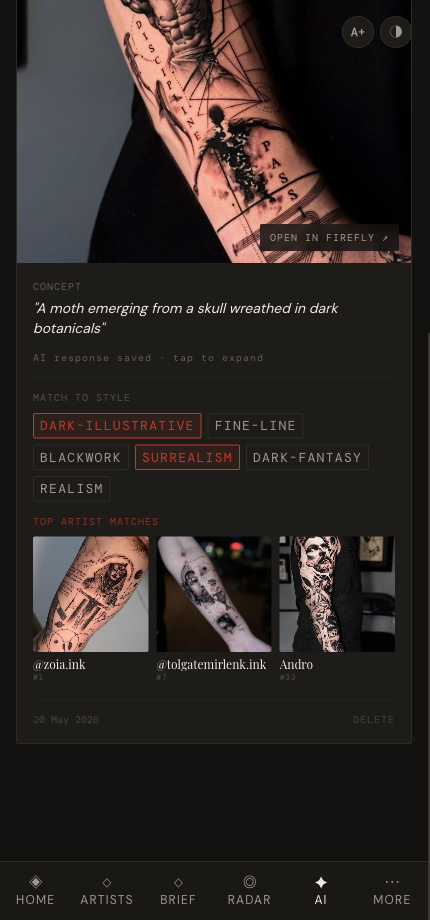
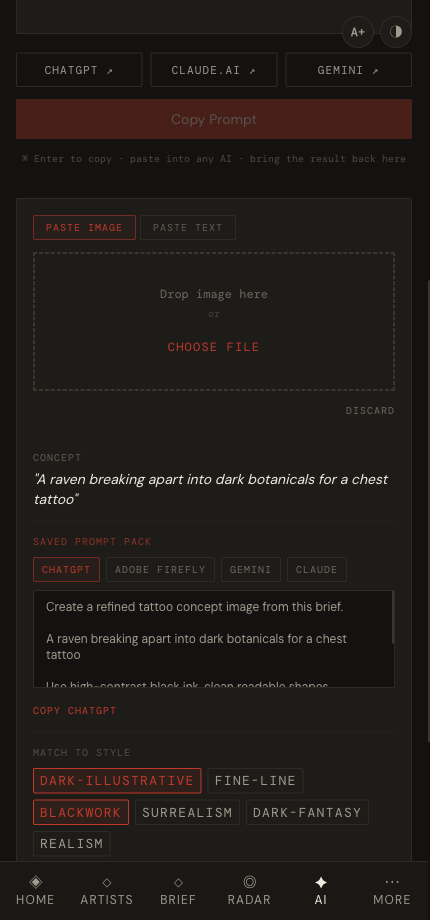
docs(ai): sync prompt pack guide

diff --git a/src/pages/Help.jsx b/src/pages/Help.jsx
@@ -68,12 +68,13 @@ const SECTIONS = [
   {
     id: 'concepts',
     label: 'AI concepts',
-    blurb: 'Turn a description into a concept, then match it to artists by style.',
+    blurb: 'Create prompt packs, save AI results, and match concepts to artists by style.',
     image: 'concepts.png',
     steps: [
-      'Open AI and describe a tattoo concept in the prompt box.',
-      'Without an API key: tap Copy Prompt, paste it into ChatGPT, Claude or Gemini, then bring the result back via Paste image / Paste text.',
-      'With an OpenAI key configured (⚙ Configure AI): press ⌘+Enter to generate a DALL·E image directly.',
+      'Open AI. In Prompt Pack, start from free text or select a Brief idea to pull in placement, tags, linked artists and reference notes.',
+      'Tap Generate Prompt Pack, switch between ChatGPT, Adobe Firefly, Gemini and Claude prompts, then Save Pack before leaving Tattoo.',
+      'Copy the provider prompt you want to use. Bring results back to the saved card with Paste image or Paste text.',
+      'The older quick prompt box still works: Copy Prompt opens the manual paste flow, or configure an OpenAI key (⚙ Configure AI) to generate an image directly.',
       'Tag each concept with styles to reveal its top artist matches; tap a match to open their Instagram.',
     ],
   },

diff --git a/docs/06-concepts.md b/docs/06-concepts.md
@@ -1,20 +1,42 @@
 # AI concepts
 
-*Turn a written description into a tattoo concept, then see which of your artists suit it.*
+*Turn rough tattoo ideas into prompt packs, saved AI results, and artist matches.*
 
 ← [Back to contents](README.md)
 
 ---
 
-**AI** is a sketchpad for concepts. You describe an idea, generate or paste in a visual,
-and the app matches it to artists by style.
+**AI** is a sketchpad and prompt workbench for concepts. You can turn a short idea
+or an existing Brief idea into provider-specific prompts for ChatGPT, Adobe Firefly,
+Gemini and Claude, then bring the generated results back into Tattoo.
 
 ![The AI Concepts page](../public/guide/concepts.png)
 
-## Describe a concept
+## Build a prompt pack
+
+The **Prompt Pack** workbench is the recommended starting point. Choose a source:
+
+- **Free text** — type a loose concept, such as *"A raven breaking apart into dark
+  botanicals for a chest tattoo."*
+- **Brief idea** — select an idea from **Brief** to pull in its title, description,
+  placement, style tags, linked artists and reference-image notes.
+
+Tap **Generate Prompt Pack** to create tailored prompts for:
+
+- **ChatGPT** — visual image generation.
+- **Adobe Firefly** — polished tattoo-reference composition and refinement.
+- **Gemini** — visual critique, placement and tattooability risks.
+- **Claude** — artist-facing language, consultation brief and DM wording.
+
+Switch between providers, then tap **Save Pack** before leaving Tattoo so the full
+prompt pack is kept as a concept card. Copy the active prompt, run it in the AI tool,
+then use **Paste image** or **Paste text** on the saved card to bring generated output
+back into Tattoo.
+
+## Quick concept prompt
 
 Type a description in the prompt box, e.g. *"A moth emerging from a skull wreathed in dark
-botanicals."* There are two ways to turn it into a concept:
+botanicals."* This older quick path still works:
 
 ### Without an API key (default)
 
@@ -31,14 +53,16 @@ box gains a **Generate Image** button — press **⌘ + Enter** to create a DALL
 
 ## Work with a concept
 
-Each concept card holds the image, the original prompt and the saved AI response (tap to
-expand). Below that:
+Each concept card holds the original prompt, any saved prompt pack, and any saved image
+or AI response (tap to expand). Prompt-pack cards can start image-less until you paste
+or upload a result. Below that:
 
-![A concept card with artist matches](../public/guide/concept-card.png)
+![A saved concept card with prompt pack and style matching](../public/guide/concept-card.png)
 
 - **Match to style** — tag the concept with styles. The moment you do, its **top artist
   matches** appear; tap one to open their Instagram.
-- **Open in Firefly** — jump to Adobe Firefly to take the image further.
+- **Saved prompt pack** — switch between provider prompts and copy them again later.
+- **Open in Firefly** — appears once the concept has an image, so you can take it further.
 - **Delete** removes the concept.
 
 > **Tip:** the concept tags use the same six styles as the rest of the app, so a well-tagged